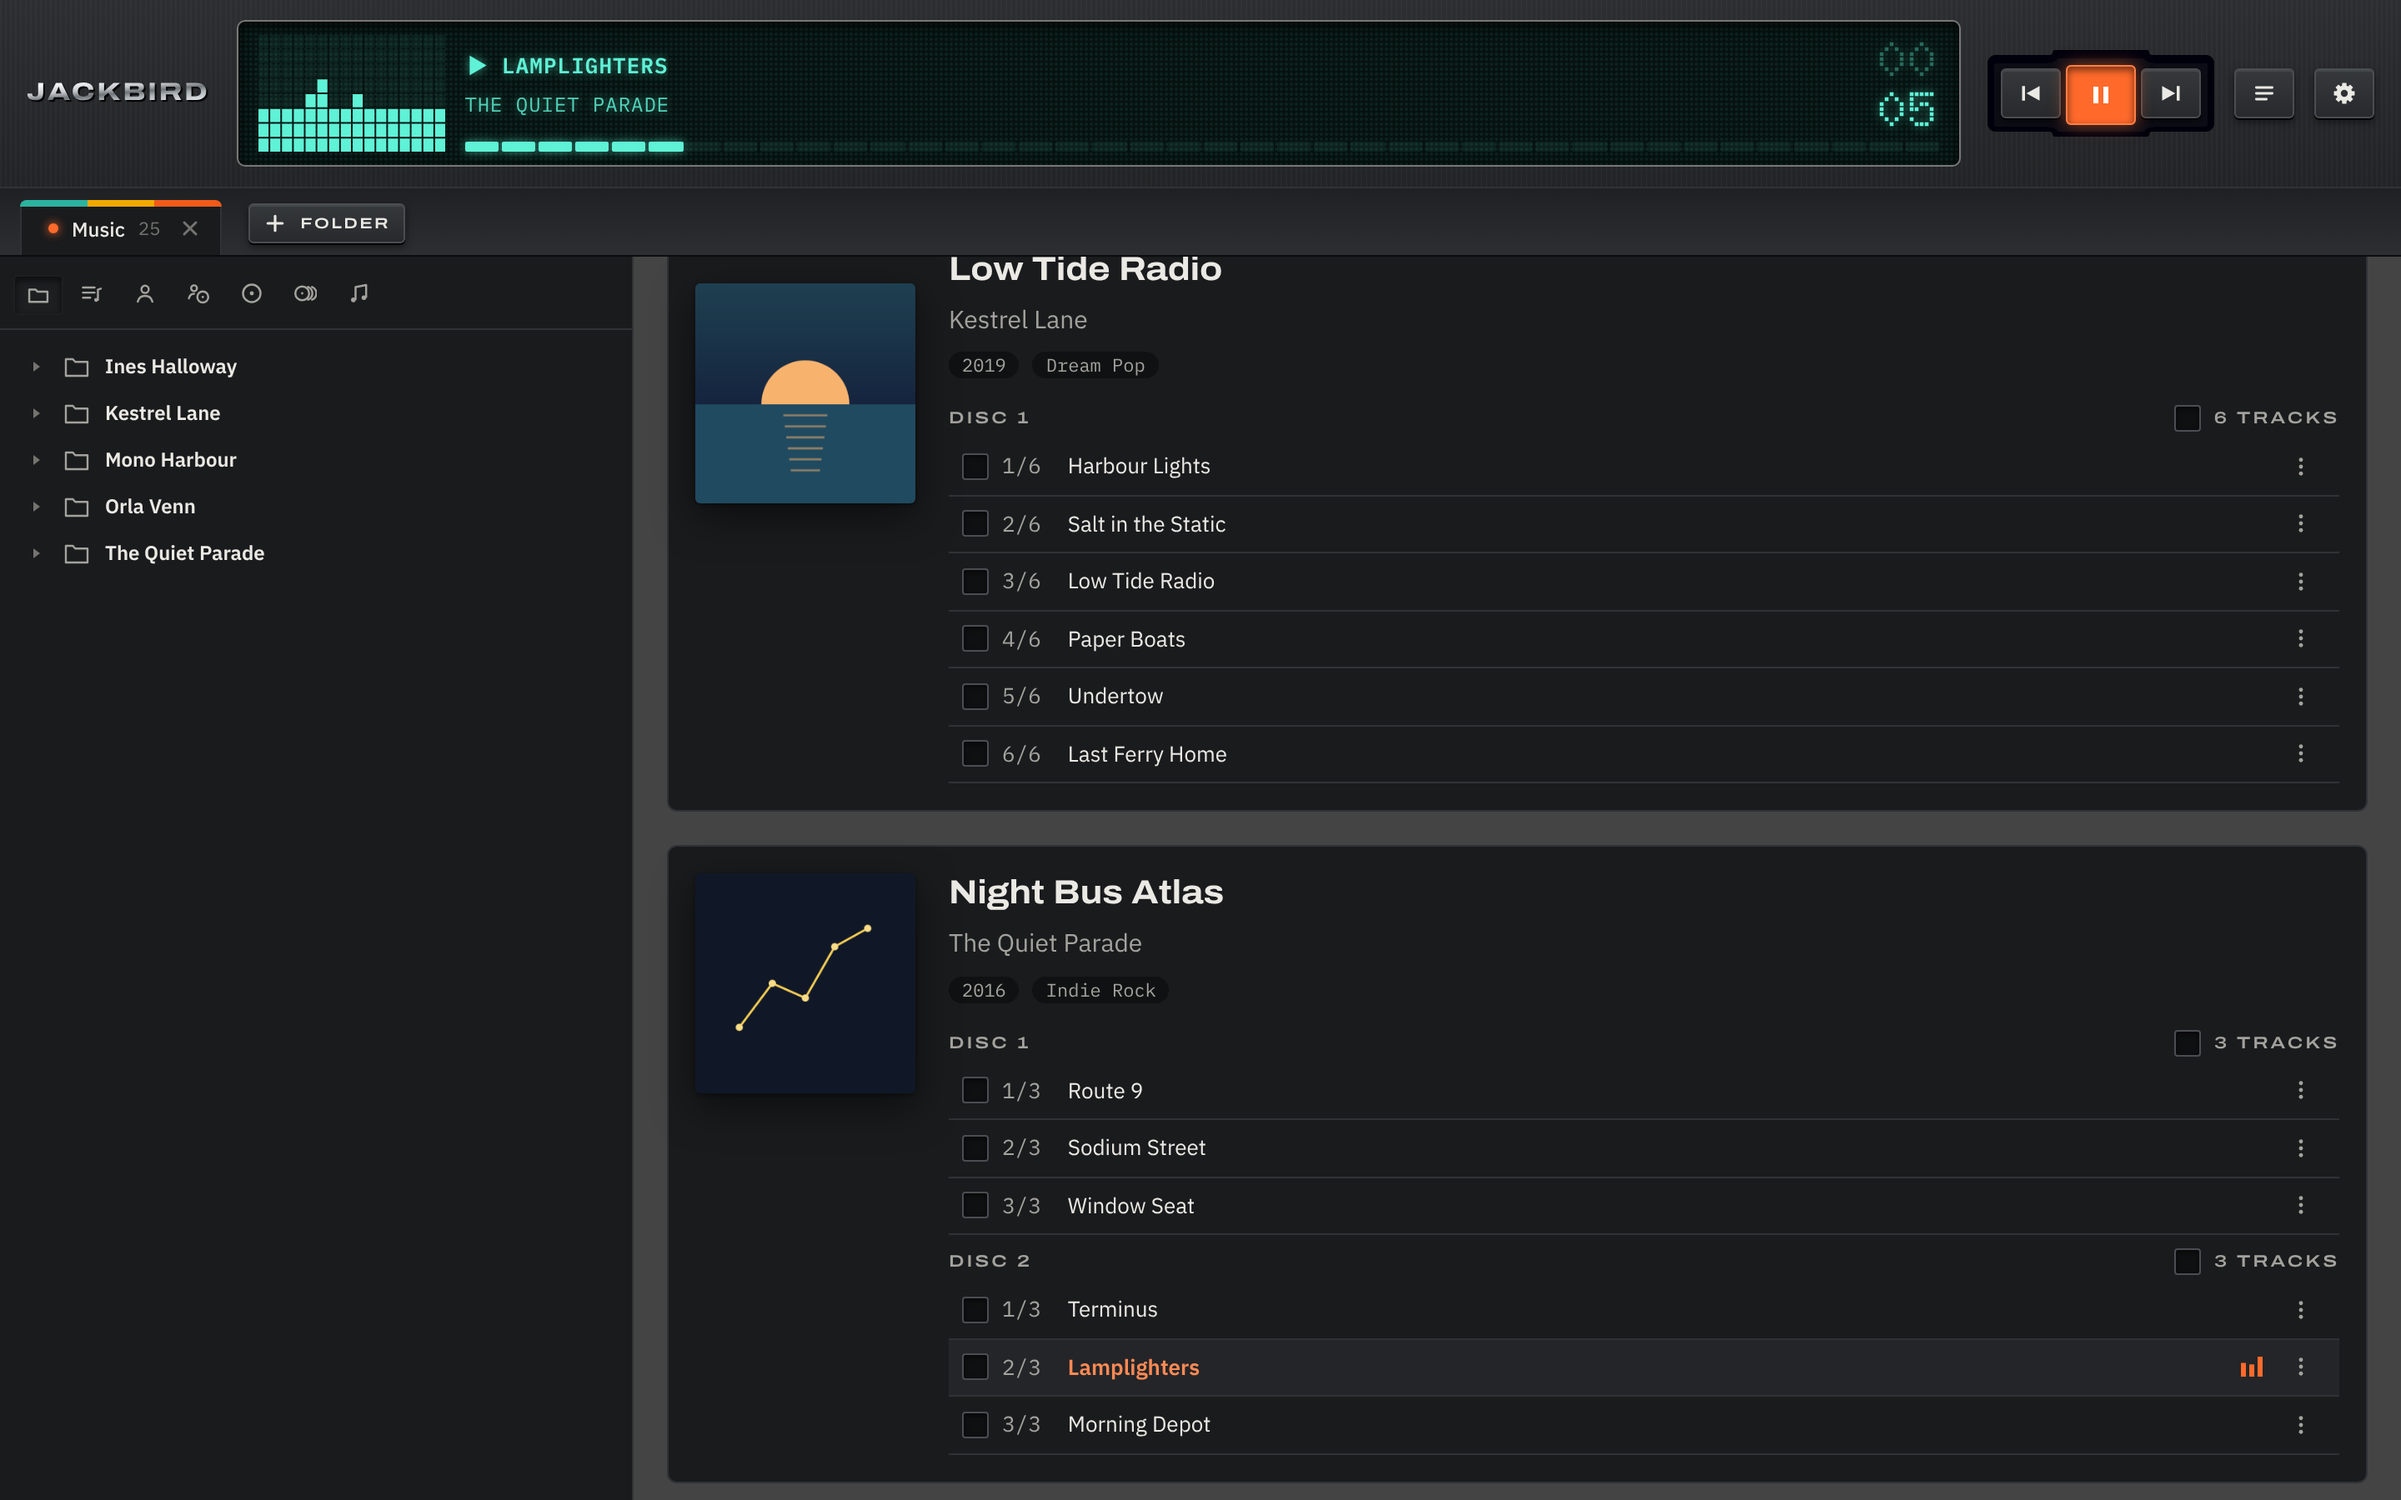
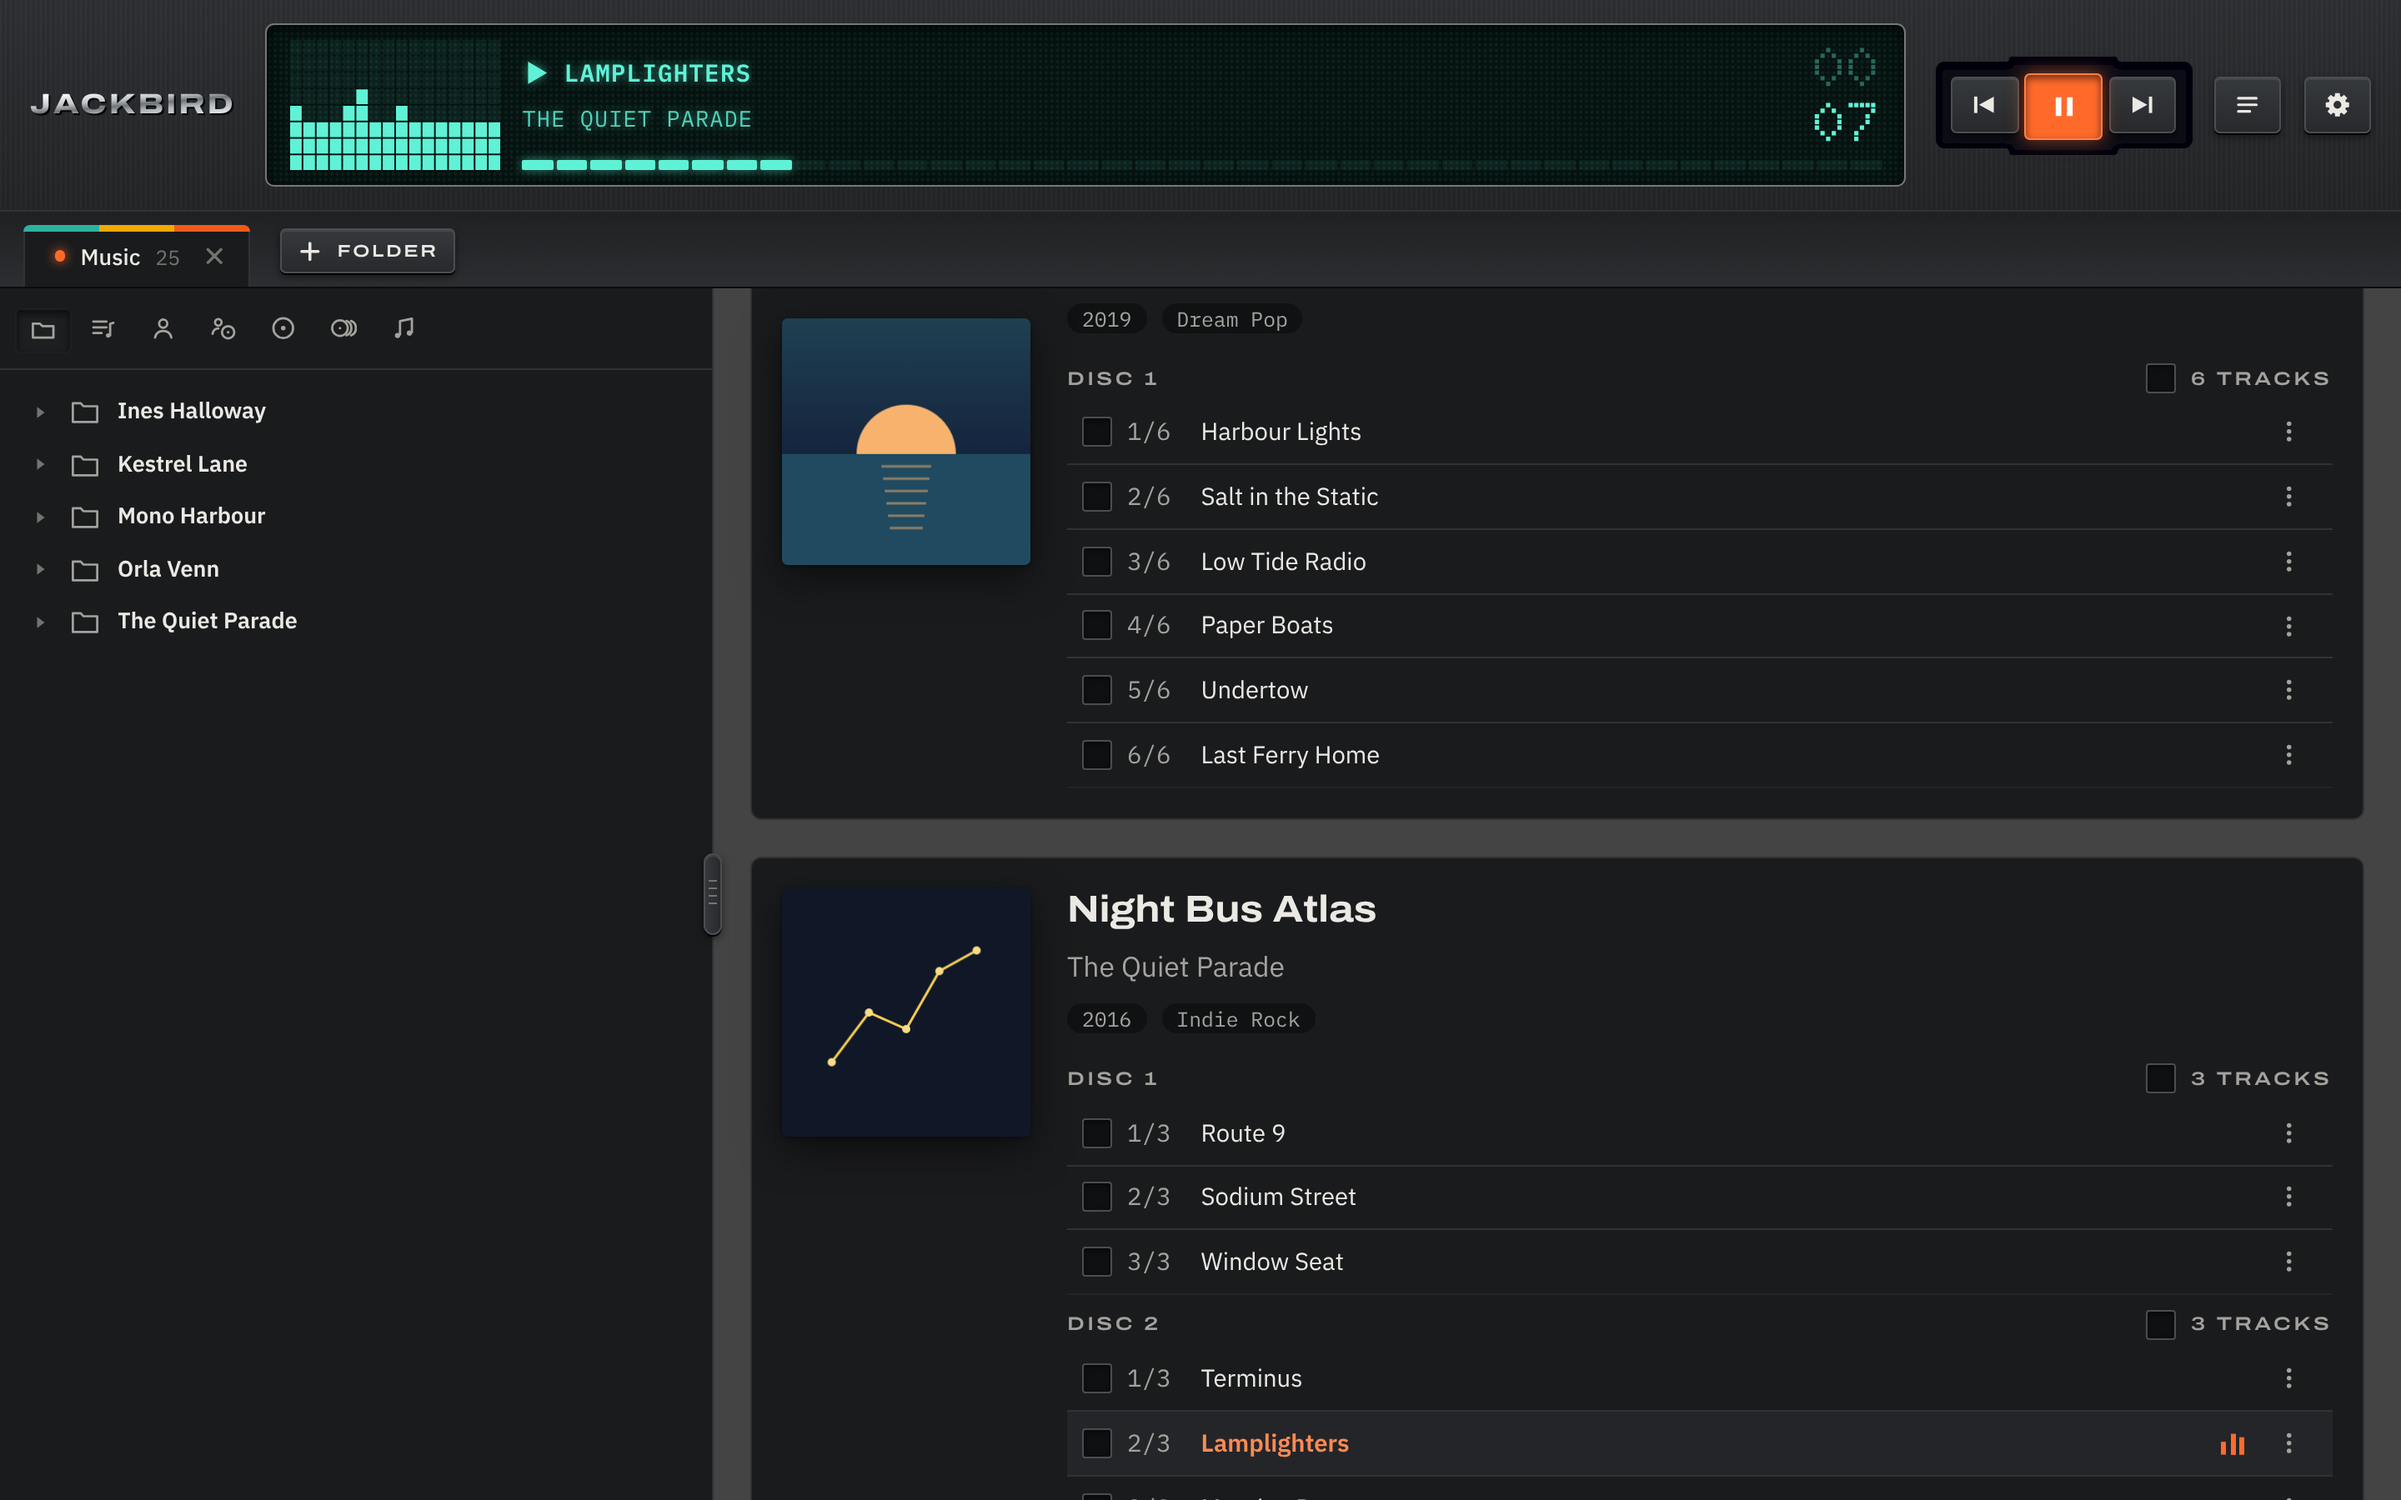
docs(screenshots): the README's and the landing's images over today's interface
Claude-Session: https://claude.ai/code/session_017Mbmirz9tF12XX3gg3EKbY

diff --git a/landing/index.html b/landing/index.html
@@ -61,8 +61,8 @@
 
       <!-- The app's real faceplate, captured from it (scripts/screenshots.cjs), as a unit's front. -->
       <figure class="unit">
-        <img class="only-light" src="./screenshots/faceplate-silver.png" alt="jackbird's faceplate in Silver: the display playing a track, its spectrum lit, and the transport keys" width="2880" height="224">
-        <img class="only-dark" src="./screenshots/faceplate-graphite.png" alt="jackbird's faceplate in Graphite: the display glowing, a track playing, and the transport keys" width="2880" height="224">
+        <img class="only-light" src="./screenshots/faceplate-silver.png" alt="jackbird's faceplate in Silver: the display playing a track, its spectrum lit, and the transport keys" width="2880" height="252">
+        <img class="only-dark" src="./screenshots/faceplate-graphite.png" alt="jackbird's faceplate in Graphite: the display glowing, a track playing, and the transport keys" width="2880" height="252">
         <div class="stripes" aria-hidden="true"><span></span><span></span><span></span></div>
       </figure>
     </section>

diff --git a/RECORD/2026-11-12.landing-page.WIP.md b/RECORD/2026-11-12.landing-page.WIP.md
@@ -56,3 +56,12 @@ display and keys drawn in the page's own CSS, with a fake marquee and spectrum).
   spectrum are gone.
 - The README's screenshots, made by the same run, show today's interface (the wordmark, the lit
   play key, the taller spectrum).
+
+---
+
+## 2026-11-13 02:20 — The landing with today's interface
+
+The screenshots made again with `scripts/screenshots.cjs` over the interface as it is now (the
+18px root, the lit play key, the split's separator, the lists without dashes); the faceplate's
+capture is 252px tall at 2×, and the landing's `<img>` sizes follow. Checked at 1366 and 390px in
+both tones: no horizontal overflow.
